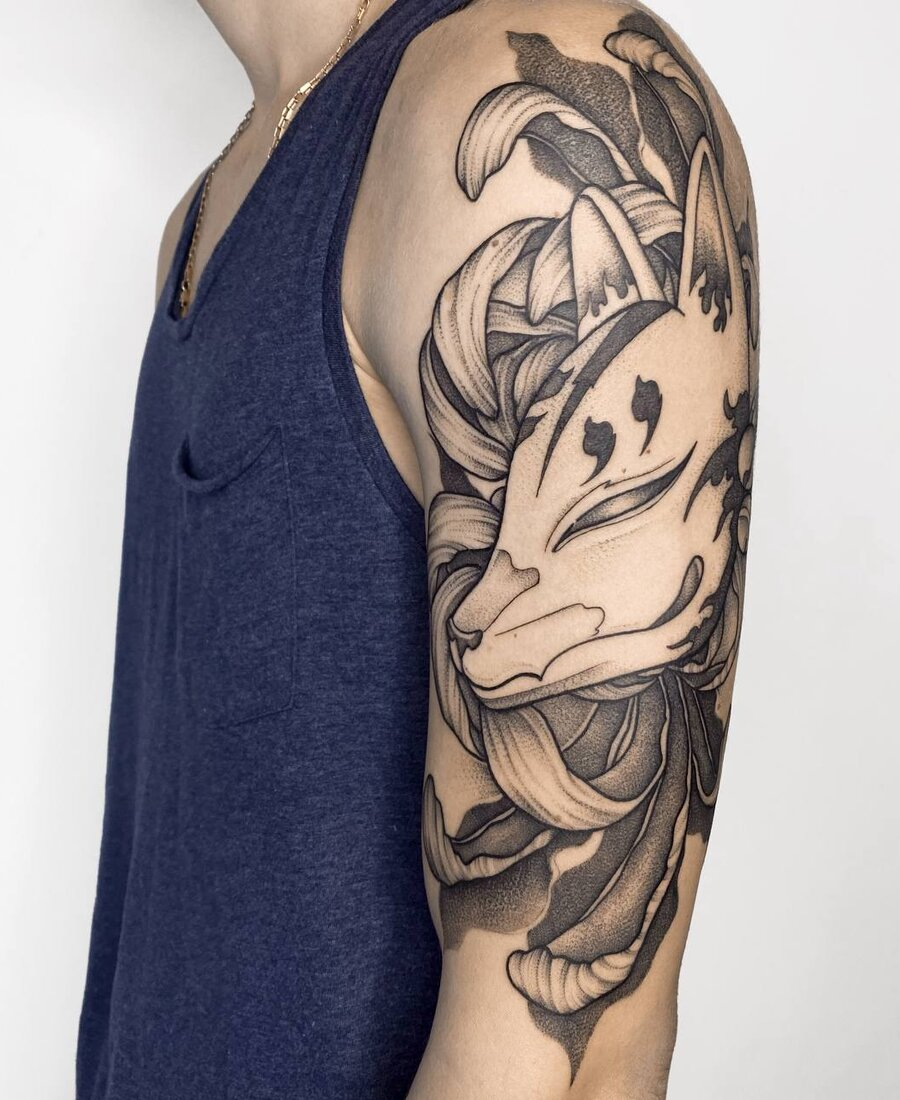
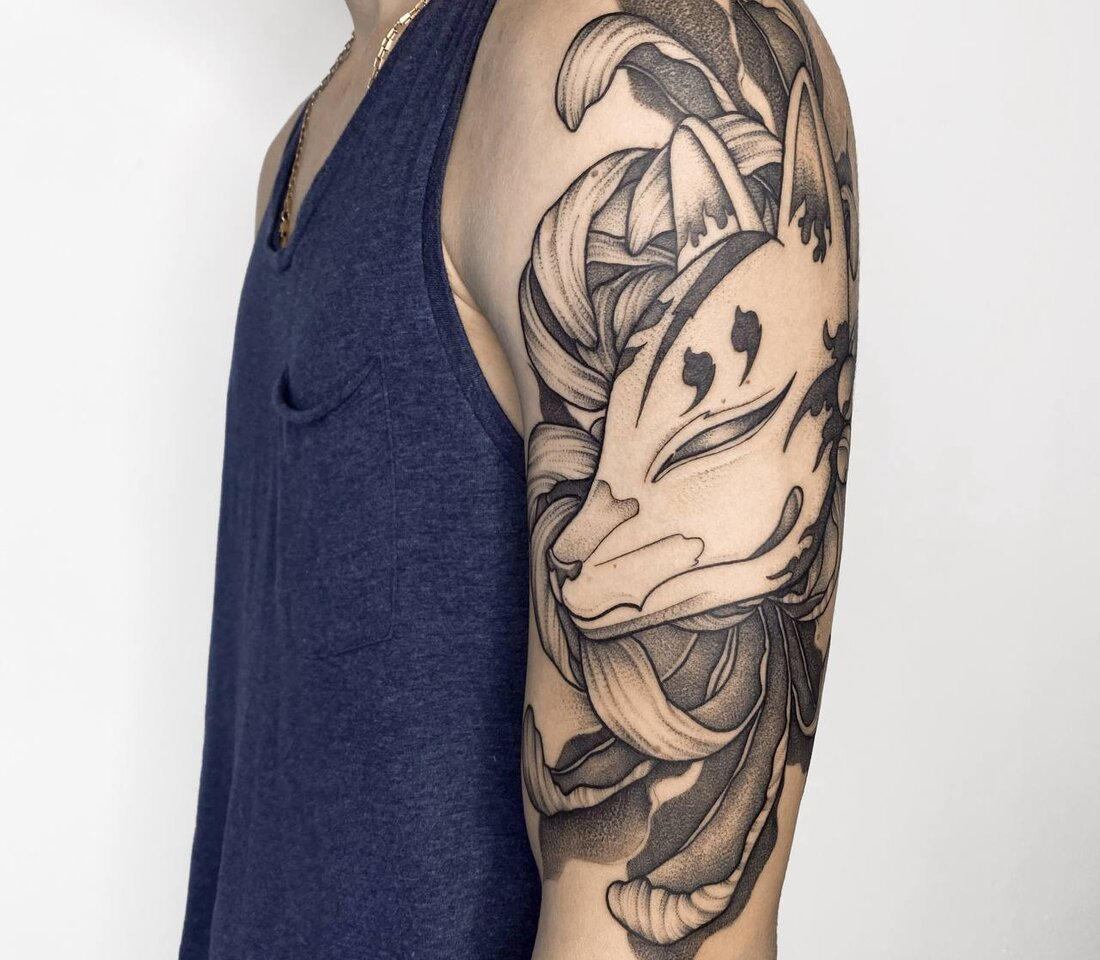
fix(about): recrop passion-large to landscape 1100×960, fix objectPosition center
Large photos were portrait (900×1100) in a landscape container → heavy zoom.
Reprocessed to 1100×960 matching container ratio ~1.14:1.
Changed objectPosition from center top to center center.
Added maxHeight: 730px to studio-wide image.

diff --git a/app/about/page.tsx b/app/about/page.tsx
@@ -188,6 +188,7 @@ export default function GraphicAboutPage() {
               position: 'relative',
               width: '100%',
               aspectRatio: '1840 / 960',
+              maxHeight: '730px',
               overflow: 'hidden',
               borderRadius: '2px',
               marginBottom: 'clamp(1.5rem, 2.5vw, 3rem)',

diff --git a/components/graphic/GAboutPassionBlock.tsx b/components/graphic/GAboutPassionBlock.tsx
@@ -141,7 +141,7 @@ export function GAboutPassionBlock() {
           src={slide.large}
           alt={slide.alt}
           fill
-          style={{ objectFit: 'cover', objectPosition: 'center top' }}
+          style={{ objectFit: 'cover', objectPosition: 'center center' }}
           sizes="55vw"
         />
       </div>
